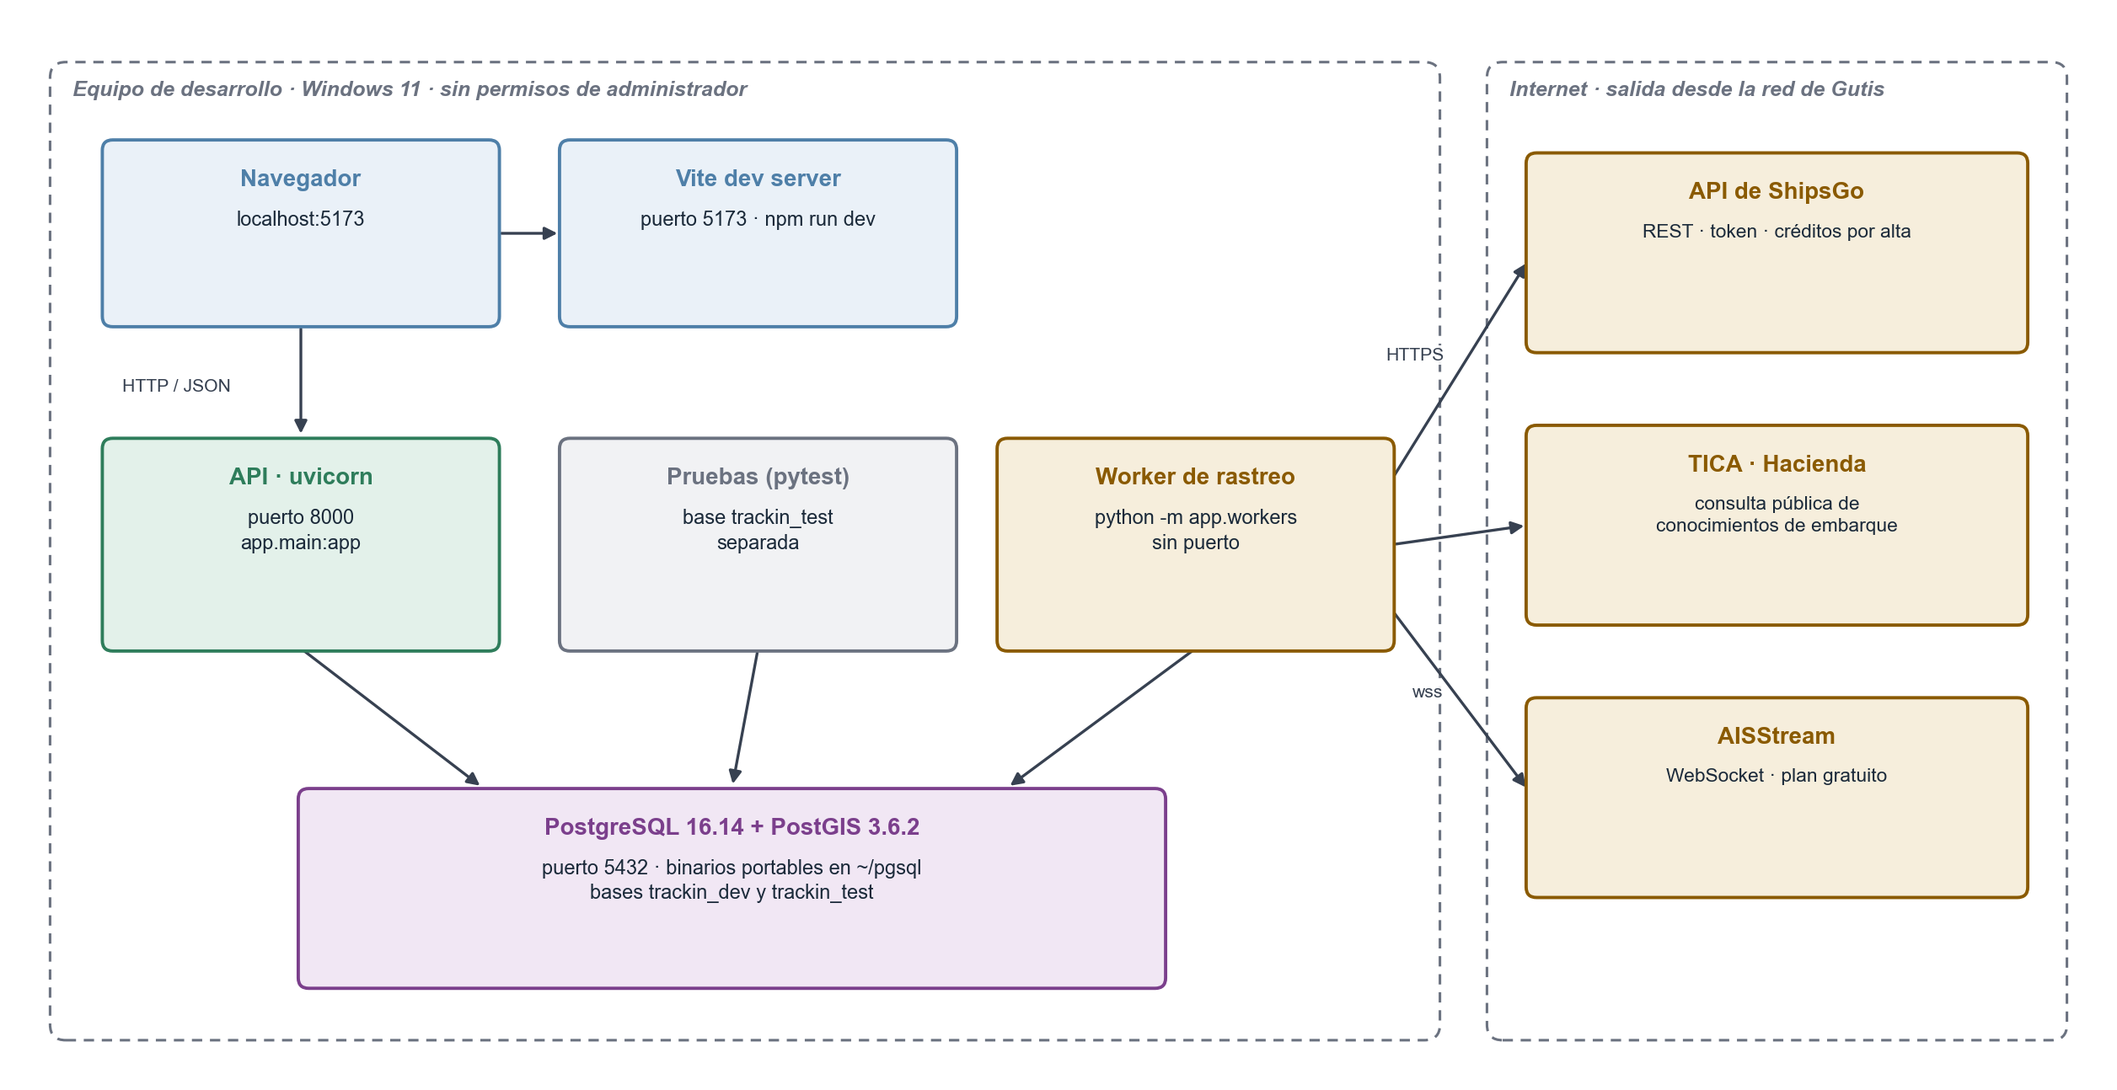
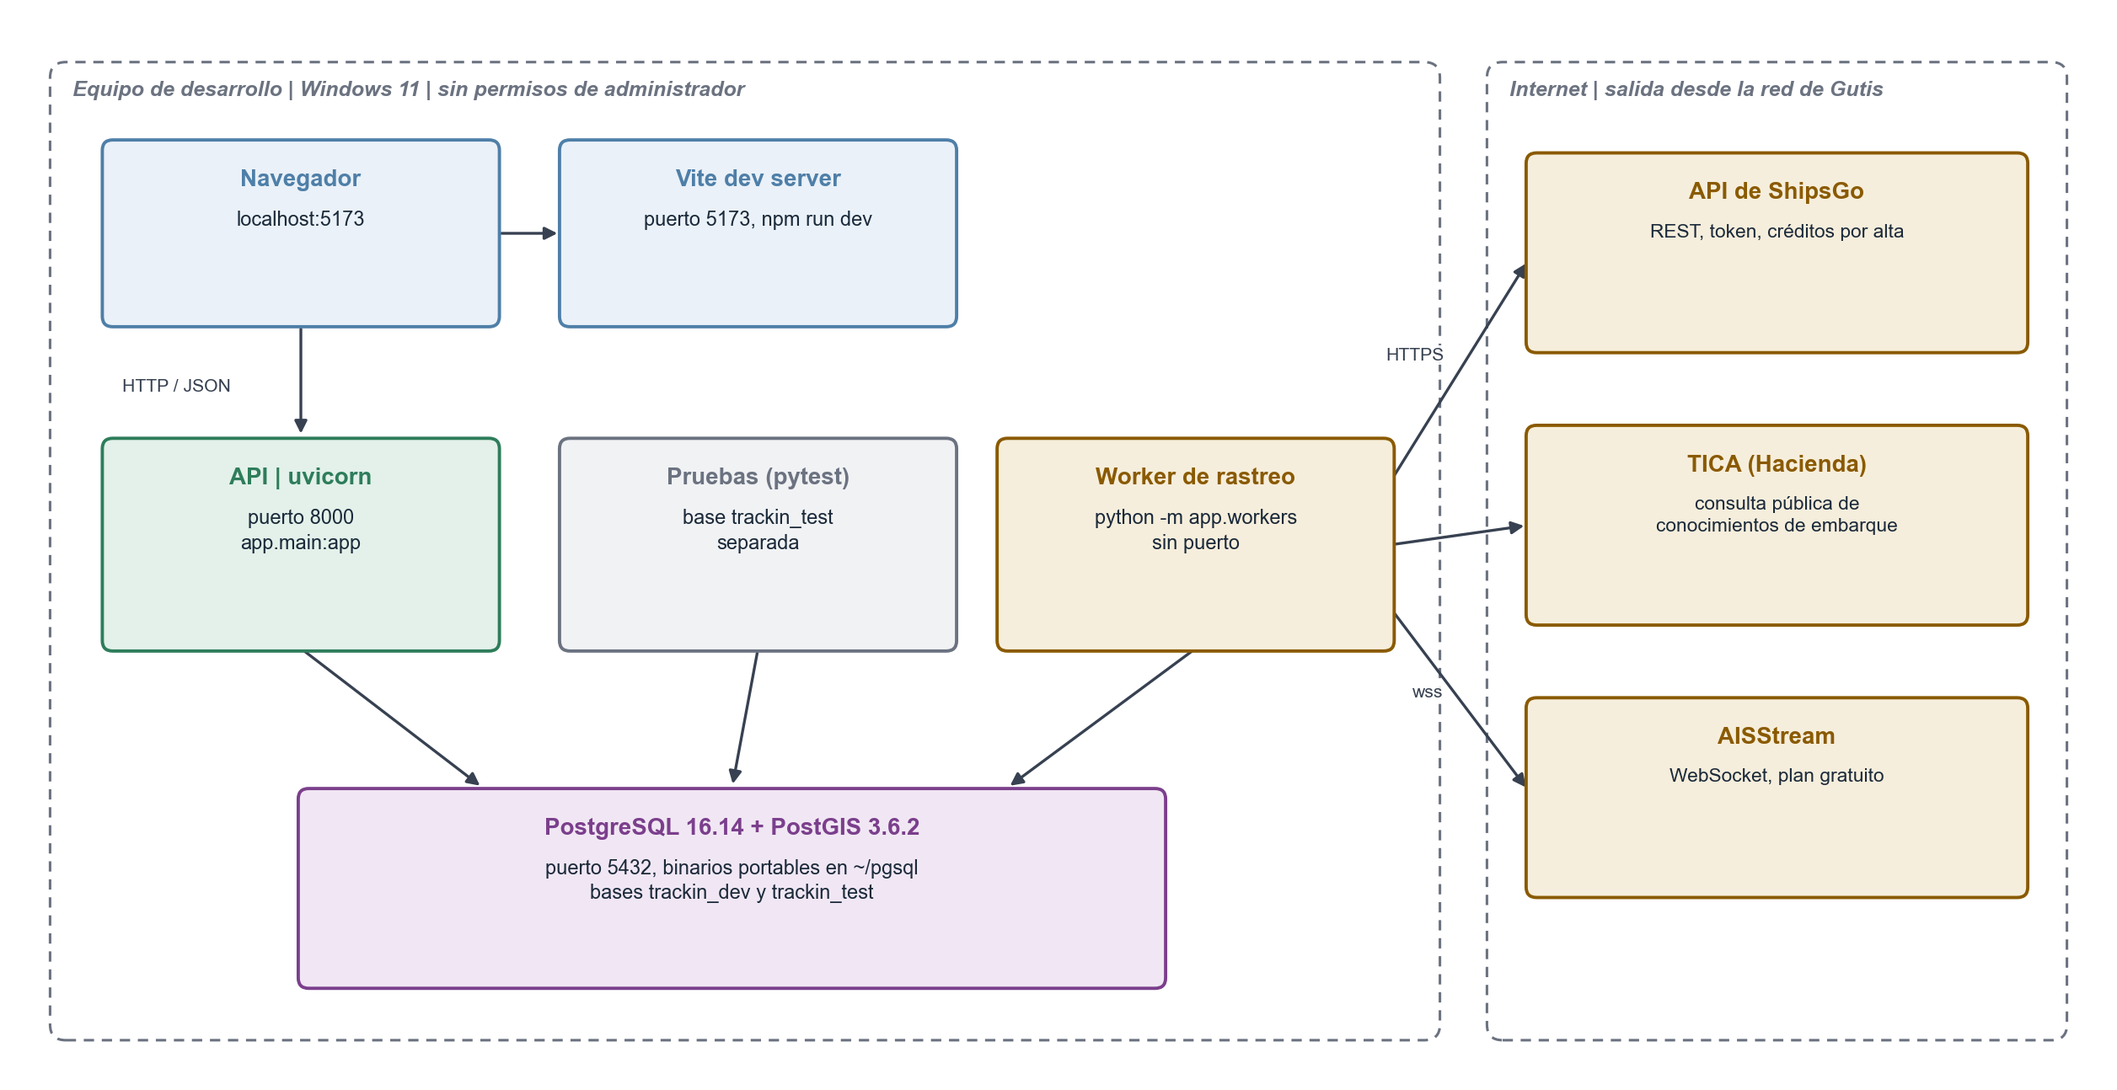
Correcciones diagramas

diff --git a/docs/informes/diagramas/diagramas.py b/docs/informes/diagramas/diagramas.py
@@ -82,44 +82,57 @@ flecha(ax, (14.47, 2.65), (14.2, 3.2), "", ls=(0, (3, 2)))
 guardar(fig, "arquitectura.png")
 
 # ---------------------------------------------------------------- 2. Subsistemas
-fig, ax = lienzo(16, 6.6)
+# Para separar o juntar las cajas, cambiar solo estas tres medidas:
+ANCHO = 4.9   # ancho de cada caja
+ALTO = 1.95   # alto de cada caja
+SEP = 1.6     # espacio horizontal entre cajas (donde van los mensajes de las flechas)
+X = [0.3, 0.3 + ANCHO + SEP, 0.3 + 2 * (ANCHO + SEP)]   # columnas
+Y_ARRIBA, Y_ABAJO = 4.1, 1.0                              # filas
+fig, ax = lienzo(X[2] + ANCHO + 0.3, 6.6)
 S = [
-    (0.3, 4.1, "S1 - Ingesta de pedidos", "Lector del Z-tracking, normalización\ncontra catálogos (RN-17), carga\nidempotente, ausencias e informe", VERDE),
-    (5.55, 4.1, "S2 - Rastreo", "Planificador, colectores de ShipsGo,\nTICA y AISStream, política de\nresiliencia y salud de las fuentes", OCRE),
-    (10.8, 4.1, "S3 - Motor de cálculo", "Arribo por hito o geocerca, ETA,\nfecha proyectada (RN-01), etapa\ny cumplimiento, recálculo", OCRE),
-    (0.3, 1.0, "S6 - Seguridad", "Usuarios, roles, sesiones por token,\nbloqueo por intentos, expiración\npor inactividad, argon2id", VERDE),
-    (5.55, 1.0, "S5 - Consulta y maestros", "Listado con filtros y paginación,\ndetalle con desglose del cálculo,\ndestinos y parámetros", AZUL2),
-    (10.8, 1.0, "S4 - Intervenciones y auditoría", "Desembarco, paso a aduana, recepción,\ncierre forzado, liberación de Calidad,\najuste manual; bitácora inmutable", MORADO),
+    (X[0], Y_ARRIBA, "S1 - Ingesta de pedidos", "Lector del Z-tracking, normalización\ncontra catálogos (RN-17), carga\nidempotente, ausencias e informe", VERDE),
+    (X[1], Y_ARRIBA, "S2 - Rastreo", "Planificador, colectores de ShipsGo,\nTICA y AISStream, política de\nresiliencia y salud de las fuentes", OCRE),
+    (X[2], Y_ARRIBA, "S3 - Motor de cálculo", "Arribo por hito o geocerca, ETA,\nfecha proyectada (RN-01), etapa\ny cumplimiento, recálculo", OCRE),
+    (X[0], Y_ABAJO, "S6 - Seguridad", "Usuarios, roles, sesiones por token,\nbloqueo por intentos, expiración\npor inactividad, argon2id", VERDE),
+    (X[1], Y_ABAJO, "S5 - Consulta y maestros", "Listado con filtros y paginación,\ndetalle con desglose del cálculo,\ndestinos y parámetros", AZUL2),
+    (X[2], Y_ABAJO, "S4 - Intervenciones y auditoría", "Desembarco, paso a aduana, recepción,\ncierre forzado, liberación de Calidad,\najuste manual; bitácora inmutable", MORADO),
 ]
 for x, y, t, c, col in S:
-    caja(ax, x, y, 4.9, 1.95, t, c, col, fs=10.5, fsb=8.6)
-flecha(ax, (5.2, 5.07), (5.55, 5.07))
-ax.text(5.37, 5.35, "referencias\nde embarque", ha="center", fontsize=6.8, color="#374151")
-flecha(ax, (10.45, 5.07), (10.8, 5.07))
-ax.text(10.62, 5.35, "lecturas\nnormalizadas", ha="center", fontsize=6.8, color="#374151")
-flecha(ax, (13.25, 2.95), (13.25, 4.1), "un acto manual dispara el recálculo", off=(1.5, -0.25))
-ax.text(7.9, 0.55, "La seguridad protege las rutas de consulta e intervención · los seis subsistemas comparten la base PostgreSQL + PostGIS",
-        ha="center", fontsize=8, color="#374151", style="italic")
+    caja(ax, x, y, ANCHO, ALTO, t, c, col, fs=10.5, fsb=8.6)
+
+# Flechas horizontales de la fila de arriba, con su mensaje centrado en el hueco
+y_flecha = Y_ARRIBA + ALTO / 2
+for i, mensaje in enumerate(["referencias\nde embarque", "lecturas\nnormalizadas"]):
+    x_ini, x_fin = X[i] + ANCHO, X[i + 1]
+    flecha(ax, (x_ini, y_flecha), (x_fin, y_flecha))
+    ax.text((x_ini + x_fin) / 2, y_flecha + 0.15, mensaje, ha="center", va="bottom", fontsize=7.5, color="#374151")
+
+# Flecha vertical de S4 a S3
+x_vert = X[2] + ANCHO / 2
+flecha(ax, (x_vert, Y_ABAJO + ALTO), (x_vert, Y_ARRIBA))
+ax.text(x_vert + 0.15, (Y_ABAJO + ALTO + Y_ARRIBA) / 2, "un acto manual\ndispara el recálculo", ha="left", va="center", fontsize=7.5, color="#374151")
+
+
 guardar(fig, "subsistemas.png")
 
 # ---------------------------------------------------------------- 3. Despliegue
 fig, ax = lienzo(16, 8.2)
 grupo(ax, 0.3, 0.3, 10.6, 7.5, "Equipo de desarrollo | Windows 11 | sin permisos de administrador")
 caja(ax, 0.7, 5.8, 3.0, 1.4, "Navegador", "localhost:5173", AZUL2, fsb=8.5)
-caja(ax, 4.2, 5.8, 3.0, 1.4, "Vite dev server", "puerto 5173 · npm run dev", AZUL2, fsb=8.5)
+caja(ax, 4.2, 5.8, 3.0, 1.4, "Vite dev server", "puerto 5173, npm run dev", AZUL2, fsb=8.5)
 caja(ax, 0.7, 3.3, 3.0, 1.6, "API | uvicorn", "puerto 8000\napp.main:app", VERDE, fsb=8.5)
 caja(ax, 7.55, 3.3, 3.0, 1.6, "Worker de rastreo", "python -m app.workers\nsin puerto", OCRE, fsb=8.5)
 caja(ax, 4.2, 3.3, 3.0, 1.6, "Pruebas (pytest)", "base trackin_test\nseparada", GRIS, fsb=8.5)
-caja(ax, 2.2, 0.7, 6.6, 1.5, "PostgreSQL 16.14 + PostGIS 3.6.2", "puerto 5432 · binarios portables en ~/pgsql\nbases trackin_dev y trackin_test", MORADO, fsb=8.5)
+caja(ax, 2.2, 0.7, 6.6, 1.5, "PostgreSQL 16.14 + PostGIS 3.6.2", "puerto 5432, binarios portables en ~/pgsql\nbases trackin_dev y trackin_test", MORADO, fsb=8.5)
 flecha(ax, (3.7, 6.5), (4.2, 6.5))
 flecha(ax, (2.2, 5.8), (2.2, 4.92), "HTTP / JSON", off=(-0.95, -0.1))
 flecha(ax, (2.2, 3.3), (3.6, 2.22))
 flecha(ax, (5.7, 3.3), (5.5, 2.22))
 flecha(ax, (9.05, 3.3), (7.6, 2.22))
 grupo(ax, 11.3, 0.3, 4.4, 7.5, "Internet | salida desde la red de Gutis")
-caja(ax, 11.6, 5.6, 3.8, 1.5, "API de ShipsGo", "REST · token · créditos por alta", OCRE, fsb=8.2)
-caja(ax, 11.6, 3.5, 3.8, 1.5, "TICA · Hacienda", "consulta pública de\nconocimientos de embarque", OCRE, fsb=8.2)
-caja(ax, 11.6, 1.4, 3.8, 1.5, "AISStream", "WebSocket · plan gratuito", OCRE, fsb=8.2)
+caja(ax, 11.6, 5.6, 3.8, 1.5, "API de ShipsGo", "REST, token, créditos por alta", OCRE, fsb=8.2)
+caja(ax, 11.6, 3.5, 3.8, 1.5, "TICA (Hacienda)", "consulta pública de\nconocimientos de embarque", OCRE, fsb=8.2)
+caja(ax, 11.6, 1.4, 3.8, 1.5, "AISStream", "WebSocket, plan gratuito", OCRE, fsb=8.2)
 flecha(ax, (10.55, 4.6), (11.6, 6.3), "HTTPS", off=(-0.35, 0.05))
 flecha(ax, (10.55, 4.1), (11.6, 4.25))
 flecha(ax, (10.55, 3.6), (11.6, 2.2), "wss", off=(-0.25, 0))
@@ -140,7 +153,7 @@ pasos = [
     (1, 4, "5. historial inmutable + posición actual", 6.8),
     (1, 3, "6. elemento actualizado", 6.25),
     (3, 4, "7. pedidos del elemento y parámetros", 5.7),
-    (3, 3, "8. arribo · ETA · fecha proyectada · etapa · cumplimiento", 5.15),
+    (3, 3, "8. arribo, ETA, fecha proyectada, etapa y cumplimiento", 5.15),
     (3, 4, "9. actualiza cada pedido (aislado ante fallos)", 4.6),
     (1, 4, "10. salud de la fuente", 4.05),
     (6, 5, "11. GET /api/v1/pedidos con filtros", 3.0),
@@ -155,9 +168,9 @@ for a, b, t, y in pasos:
     else:
         flecha(ax, (xs[a], y), (xs[b], y), t, color=AZUL if b >= a else VERDE, fs=7.4, off=(0, 0.03))
 ax.add_patch(FancyBboxPatch((0.15, 3.65), 15.7, 5.62, boxstyle="round,pad=0.02", fc="#FBF7EE", ec=OCRE, lw=0.8, zorder=-1))
-ax.text(0.3, 9.18, "Proceso 2 · worker, cada ciclo", fontsize=8, color=OCRE, style="italic", fontweight="bold")
+ax.text(0.3, 9.18, "Proceso 2 - worker, cada ciclo", fontsize=8, color=OCRE, style="italic", fontweight="bold")
 ax.add_patch(FancyBboxPatch((0.15, 1.45), 15.7, 1.95, boxstyle="round,pad=0.02", fc="#EEF4FA", ec=AZUL2, lw=0.8, zorder=-1))
-ax.text(0.3, 3.15, "Proceso 1 · API, a petición del usuario", fontsize=8, color=AZUL2, style="italic", fontweight="bold")
+ax.text(0.3, 3.15, "Proceso 1 - API, a petición del usuario", fontsize=8, color=AZUL2, style="italic", fontweight="bold")
 guardar(fig, "secuencia.png")
 
 # ---------------------------------------------------------------- 5. Estados del pedido
@@ -178,32 +191,32 @@ ax.text(10.5, 1.5, "CANCELADO", ha="center", va="center", fontsize=8, fontweight
 ax.text(10.5, 0.25, "anulación de la OC antes de la recepción\n(desde cualquier etapa no terminal)", ha="center", fontsize=7, color="#374151")
 for x in (1.3, 3.5, 5.8, 8.0, 10.3, 12.5):
     flecha(ax, (x, 3.6), (10.5, 2.02), ls=(0, (2, 2)), color="#6B7280")
-ax.text(0.3, 5.75, "Dimensión 1 · etapa del viaje (solo avanza)", fontsize=10, fontweight="bold", color=AZUL)
-ax.text(0.3, 2.3, "Dimensión 2 · cumplimiento\nA_TIEMPO · EN_RIESGO · RETRASADO\no sin proyección (fecha proyectada frente\na la fecha de llegada a Gutis)",
+ax.text(0.3, 5.75, "Dimensión 1 - etapa del viaje (solo avanza)", fontsize=10, fontweight="bold", color=AZUL)
+ax.text(0.3, 2.3, "Dimensión 2 - cumplimiento\nA_TIEMPO, EN_RIESGO, RETRASADO\no sin proyección (fecha proyectada frente\na la fecha de llegada a Gutis)",
         fontsize=8.8, color=ROJO, va="top", fontweight="bold")
 guardar(fig, "estados.png")
 
 # ---------------------------------------------------------------- 6. ER
 T = {
-    "pedidos_transito": (["PK id", "oc_numero · posicion_oc", "FK id_proveedor", "FK id_material", "FK id_destino", "FK id_pais_origen",
-                          "FK id_elemento_rastreado", "via_transporte · incoterm", "fecha_entrega_pedido", "eta_utilizada · ata_confirmada",
-                          "fecha_proyectada_disponible", "etapa_viaje · estado_cumplimiento", "fecha_recepcion_planta", "fecha_liberacion_calidad",
-                          "ausente_desde · … (40 col.)"], (5.6, 4.6), AZUL),
-    "elementos_rastreados": (["PK id", "tipo_tracking_externo", "tracking_externo", "via_transporte · nombre · imo", "eta_api · ata_api",
-                              "posicion_actual (geography)", "guia_madre · manifiesto_aduana", "activo"], (11.2, 7.3), OCRE),
-    "pedido_elemento_rastreado": (["PK id", "FK id_pedido", "FK id_elemento_rastreado", "tramo · fecha_desde · fecha_hasta", "puerto_transbordo"], (11.2, 3.75), OCRE),
-    "historial_tracking": (["PK id", "FK id_elemento_rastreado", "fecha_registro", "posicion (geography)", "velocidad · rumbo · estado_api", "payload_api (JSONB)"], (15.6, 7.3), OCRE),
-    "maestro_destinos": (["PK id", "codigo (UN/LOCODE) · nombre", "via_transporte", "ubicacion (geography)", "radio_geocerca_km", "lead_time_dias"], (0.3, 9.0), VERDE),
-    "proveedores": (["PK id", "codigo · nombre · pais"], (0.3, 6.2), VERDE),
-    "materiales": (["PK id", "codigo · descripcion", "unidad_medida"], (0.3, 4.7), VERDE),
-    "maestro_paises": (["PK id", "codigo · nombre"], (0.3, 2.9), VERDE),
+    "pedidos_transito": (["PK id", "oc_numero, posicion_oc", "FK id_proveedor", "FK id_material", "FK id_destino", "FK id_pais_origen",
+                          "FK id_elemento_rastreado", "via_transporte, incoterm", "fecha_entrega_pedido", "eta_utilizada, ata_confirmada",
+                          "fecha_proyectada_disponible", "etapa_viaje, estado_cumplimiento", "fecha_recepcion_planta", "fecha_liberacion_calidad",
+                          "ausente_desde, … (40 col.)"], (5.6, 4.6), AZUL),
+    "elementos_rastreados": (["PK id", "tipo_tracking_externo", "tracking_externo", "via_transporte, nombre, imo", "eta_api, ata_api",
+                              "posicion_actual (geography)", "guia_madre, manifiesto_aduana", "activo"], (11.2, 7.3), OCRE),
+    "pedido_elemento_rastreado": (["PK id", "FK id_pedido", "FK id_elemento_rastreado", "tramo, fecha_desde, fecha_hasta", "puerto_transbordo"], (11.2, 3.75), OCRE),
+    "historial_tracking": (["PK id", "FK id_elemento_rastreado", "fecha_registro", "posicion (geography)", "velocidad, rumbo, estado_api", "payload_api (JSONB)"], (15.6, 7.3), OCRE),
+    "maestro_destinos": (["PK id", "codigo (UN/LOCODE), nombre", "via_transporte", "ubicacion (geography)", "radio_geocerca_km", "lead_time_dias"], (0.3, 9.0), VERDE),
+    "proveedores": (["PK id", "codigo, nombre, pais"], (0.3, 6.2), VERDE),
+    "materiales": (["PK id", "codigo, descripcion", "unidad_medida"], (0.3, 4.7), VERDE),
+    "maestro_paises": (["PK id", "codigo, nombre"], (0.3, 2.9), VERDE),
     "alias_paises": (["PK id", "FK id_pais", "alias"], (0.3, 1.0), VERDE),
-    "auditoria_intervenciones": (["PK id", "FK id_pedido", "FK id_usuario", "fecha_hora · tipo_intervencion", "campo · valor anterior y nuevo", "motivo"], (5.6, 0.2), MORADO),
-    "usuarios": (["PK id", "usuario · correo · rol", "hash_contrasena (argon2id)", "intentos_fallidos · bloqueado_hasta"], (11.2, 0.6), MORADO),
-    "sesiones": (["PK id", "FK id_usuario", "hash_token · recordada", "ultimo_uso · cerrada_en"], (15.6, 0.6), MORADO),
-    "parametros_sistema": (["PK clave", "valor · tipo_dato", "FK id_usuario_modificacion"], (15.6, 4.0), GRIS),
-    "salud_fuentes": (["PK nombre", "degradada · fallos_consecutivos", "ultimo_contacto_ok"], (15.6, 10.6), GRIS),
-    "cargas_ztracking": (["PK id", "FK id_usuario → usuarios", "archivo · estado", "recibidas · insertadas · rechazadas", "informe (JSONB)"], (5.6, 10.3), GRIS),
+    "auditoria_intervenciones": (["PK id", "FK id_pedido", "FK id_usuario", "fecha_hora, tipo_intervencion", "campo, valor anterior y nuevo", "motivo"], (5.6, 0.2), MORADO),
+    "usuarios": (["PK id", "usuario, correo, rol", "hash_contrasena (argon2id)", "intentos_fallidos, bloqueado_hasta"], (11.2, 0.6), MORADO),
+    "sesiones": (["PK id", "FK id_usuario", "hash_token, recordada", "ultimo_uso, cerrada_en"], (15.6, 0.6), MORADO),
+    "parametros_sistema": (["PK clave", "valor, tipo_dato", "FK id_usuario_modificacion"], (15.6, 4.0), GRIS),
+    "salud_fuentes": (["PK nombre", "degradada, fallos_consecutivos", "ultimo_contacto_ok"], (15.6, 10.6), GRIS),
+    "cargas_ztracking": (["PK id", "FK id_usuario → usuarios", "archivo, estado", "recibidas, insertadas, rechazadas", "informe (JSONB)"], (5.6, 10.3), GRIS),
 }
 W, LH = 3.9, 0.33
 fig, ax = lienzo(19.8, 13.4)

diff --git a/docs/informes/diagramas/cronograma.py b/docs/informes/diagramas/cronograma.py
@@ -23,30 +23,30 @@ F = [
     (3, "Configuración del entorno de desarrollo y del repositorio", "3/8", "5/8", 0),
     (3, "Instalación de PostgreSQL 16 y PostGIS", "6/8", "7/8", 0),
     (3, "Minuta 01 con el profesor asesor", "7/8", "7/8", 1),
-    (2, "Sprint 1 · Requerimientos y viabilidad técnica", None, None, 0),
+    (2, "Sprint 1: Requerimientos y viabilidad técnica", None, None, 0),
     (3, "SRS v0.1", "10/8", "11/8", 0),
     (3, "Levantamiento de requerimientos con las áreas usuarias", "12/8", "14/8", 0),
     (3, "Minuta 02 con el profesor asesor y el supervisor", "14/8", "14/8", 1),
     (3, "SRS v0.2", "14/8", "14/8", 0),
-    (3, "Spike técnico TG-10 · AISStream", "17/8", "19/8", 0),
-    (3, "Spike técnico TG-11 · OpenSky Network", "18/8", "19/8", 0),
+    (3, "Spike técnico TG-10: AISStream", "17/8", "19/8", 0),
+    (3, "Spike técnico TG-11: OpenSky Network", "18/8", "19/8", 0),
     (3, "SRS v0.3 con los hallazgos de los spikes", "20/8", "20/8", 0),
     (3, "Product backlog priorizado (TG-18)", "20/8", "21/8", 0),
-    (2, "Sprint 2 · Análisis y diseño (OE1)", None, None, 0),
+    (2, "Sprint 2: Análisis y diseño (OE1)", None, None, 0),
     (3, "Modelo de datos (TASK-12 a TASK-15)", "24/8", "25/8", 0),
     (3, "Diccionario de datos (TASK-16 a TASK-19, TASK-24, TASK-26)", "25/8", "26/8", 0),
     (3, "Arquitectura: componentes, despliegue y secuencia (TASK-20 a TASK-22)", "26/8", "27/8", 0),
     (3, "Wireframes y prototipo navegable en Figma (US-34 a US-38, US-41)", "27/8", "2/9", 0),
     (3, "Validación de prototipos con usuarios clave (US-39)", "2/9", "2/9", 1),
     (3, "SRS v0.4 (TASK-25)", "3/9", "4/9", 0),
-    (2, "Sprint 3 · Persistencia e ingesta (OE2 y OE4)", None, None, 0),
+    (2, "Sprint 3: Persistencia e ingesta (OE2 y OE4)", None, None, 0),
     (3, "Esquema, migraciones y PostGIS (TASK-01, TASK-02)", "7/9", "8/9", 0),
     (3, "Maestros de países y destinos (TASK-29, TASK-31)", "9/9", "9/9", 0),
     (3, "Contrato de referencia e ingesta semilla (TASK-30, TASK-03, US-01)", "10/9", "11/9", 0),
     (3, "Resiliencia, AIS e historial de posiciones (US-02, US-03, US-04)", "14/9", "16/9", 0),
     (3, "Spike de fuentes comerciales (TASK-28)", "14/9", "16/9", 0),
     (3, "Consolidación del Informe 1 (TASK-23)", "17/9", "18/9", 0),
-    (2, "Sprint 4 · Ingesta real, fuentes comerciales y motor de cálculo", None, None, 0),
+    (2, "Sprint 4: Ingesta real, fuentes comerciales y motor de cálculo", None, None, 0),
     (3, "Carga y validación del archivo Z-tracking (US-31, US-32)", "21/9", "22/9", 0),
     (3, "Motor de cálculo: fecha proyectada, estado y arribo (US-09, US-10, US-11)", "22/9", "23/9", 0),
     (3, "Integración con ShipsGo marítimo y aéreo (US-45, US-46)", "23/9", "24/9", 0),
@@ -58,7 +58,7 @@ F = [
     (3, "Reunión con Compras y usuarios clave", "29/9", "29/9", 1),
     (3, "Puerto de llegada desde ShipsGo (US-52) y pruebas en vivo", "30/9", "1/10", 0),
     (3, "Revisión y cierre del Sprint 4 con el supervisor", "2/10", "2/10", 1),
-    (2, "Sprint 5 · Reglas de negocio, API y seguridad", None, None, 0),
+    (2, "Sprint 5: Reglas de negocio, API y seguridad", None, None, 0),
     (3, "API REST de pedidos y documentación OpenAPI (US-16, TASK-04)", "5/10", "6/10", 0),
     (3, "Reunión con Compras: prototipo final, ShipsGo y MAWB", "6/10", "6/10", 1),
     (3, "Recálculo y configuración fuera del código (US-12, US-17)", "6/10", "7/10", 0),
@@ -70,21 +70,21 @@ F = [
     (3, "Desembarco, paso a aduana y recepción (US-14, US-18)", "13/10", "14/10", 0),
     (3, "Liberación de Calidad y ajuste manual (US-47, US-40)", "14/10", "15/10", 0),
     (3, "Revisión y cierre del Sprint 5 con el supervisor", "16/10", "16/10", 1),
-    (2, "Sprint 6 · Dashboard web y carga desde la interfaz", None, None, 0),
+    (2, "Sprint 6: Dashboard web y carga desde la interfaz", None, None, 0),
     (3, "Andamiaje del frontend y grilla de pedidos (TASK-05, US-19)", "19/10", "21/10", 0),
     (3, "Carga del Z-tracking desde la interfaz (US-58)", "21/10", "22/10", 0),
     (3, "Entrega del segundo informe de avance", "23/10", "23/10", 1),
     (3, "Detalle, filtros y cinta de KPIs (US-20, US-21, US-22)", "22/10", "27/10", 0),
     (3, "Semáforo, frescura, próximos arribos y bandeja (US-23, US-24, US-28, US-48)", "27/10", "28/10", 0),
     (3, "Vistas por rol, alta de embarques y saldo de créditos (US-43, US-55, US-57)", "29/10", "30/10", 0),
-    (2, "Sprint 7 · Mapas, historial y validación de la carga", None, None, 0),
+    (2, "Sprint 7: Mapas, historial y validación de la carga", None, None, 0),
     (3, "Mapa interactivo marítimo (US-25)", "2/11", "4/11", 0),
     (3, "Mapa interactivo aéreo (US-26)", "5/11", "6/11", 0),
     (3, "Información emergente y detalle con país de origen (US-27, US-44)", "9/11", "10/11", 0),
     (3, "Plantilla y validación de formato del Z-tracking (US-59)", "10/11", "11/11", 0),
     (3, "Historial, trayecto y transbordos (US-29, US-30)", "11/11", "12/11", 0),
     (3, "Pantalla de planta y retención del historial (US-33, TASK-10)", "13/11", "13/11", 0),
-    (2, "Cierre · Pruebas y documentación", None, None, 0),
+    (2, "Cierre: Pruebas y documentación", None, None, 0),
     (3, "Pruebas de integración extremo a extremo (TASK-06)", "16/11", "18/11", 0),
     (3, "Manual de instalación y manual de usuario (TASK-07, TASK-08)", "18/11", "19/11", 0),
     (3, "Entrega del informe final", "20/11", "20/11", 1),

diff --git a/docs/informes/diagramas/README.md b/docs/informes/diagramas/README.md
@@ -10,13 +10,15 @@ matplotlib; para corregir un texto se edita el script y se vuelve a correr.
 
 ## Cómo regenerarlos
 
-Requiere Python con matplotlib (en este equipo, el Python 3.12):
+Requiere Python con matplotlib (en este equipo, el Python 3.12). En PowerShell:
 
-```bash
-cd docs/informes/diagramas
-"$LOCALAPPDATA/Programs/Python/Python312/python.exe" diagramas.py
-"$LOCALAPPDATA/Programs/Python/Python312/python.exe" cronograma.py
+```powershell
+cd docs\informes\diagramas
+& "$env:LOCALAPPDATA\Programs\Python\Python312\python.exe" diagramas.py
+& "$env:LOCALAPPDATA\Programs\Python\Python312\python.exe" cronograma.py
 ```
+
+En Git Bash, la misma ruta se escribe `"$LOCALAPPDATA/Programs/Python/Python312/python.exe"`, sin el `&`.
 
 Después, en Word: clic derecho sobre la figura → **Cambiar imagen** → **Desde un archivo**, y
 elegir el PNG nuevo de `img/`. Así se conservan el tamaño y la leyenda.
